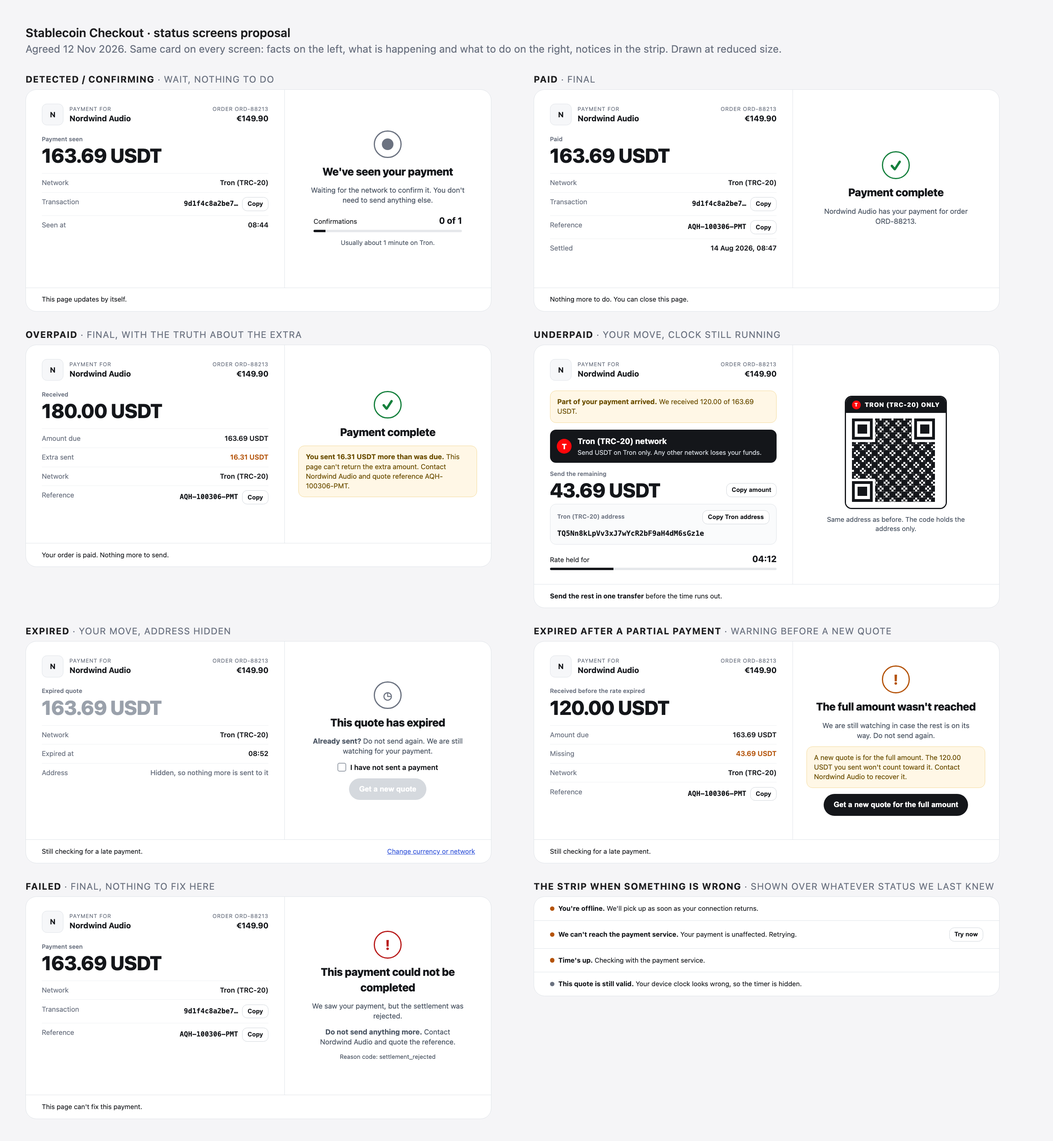
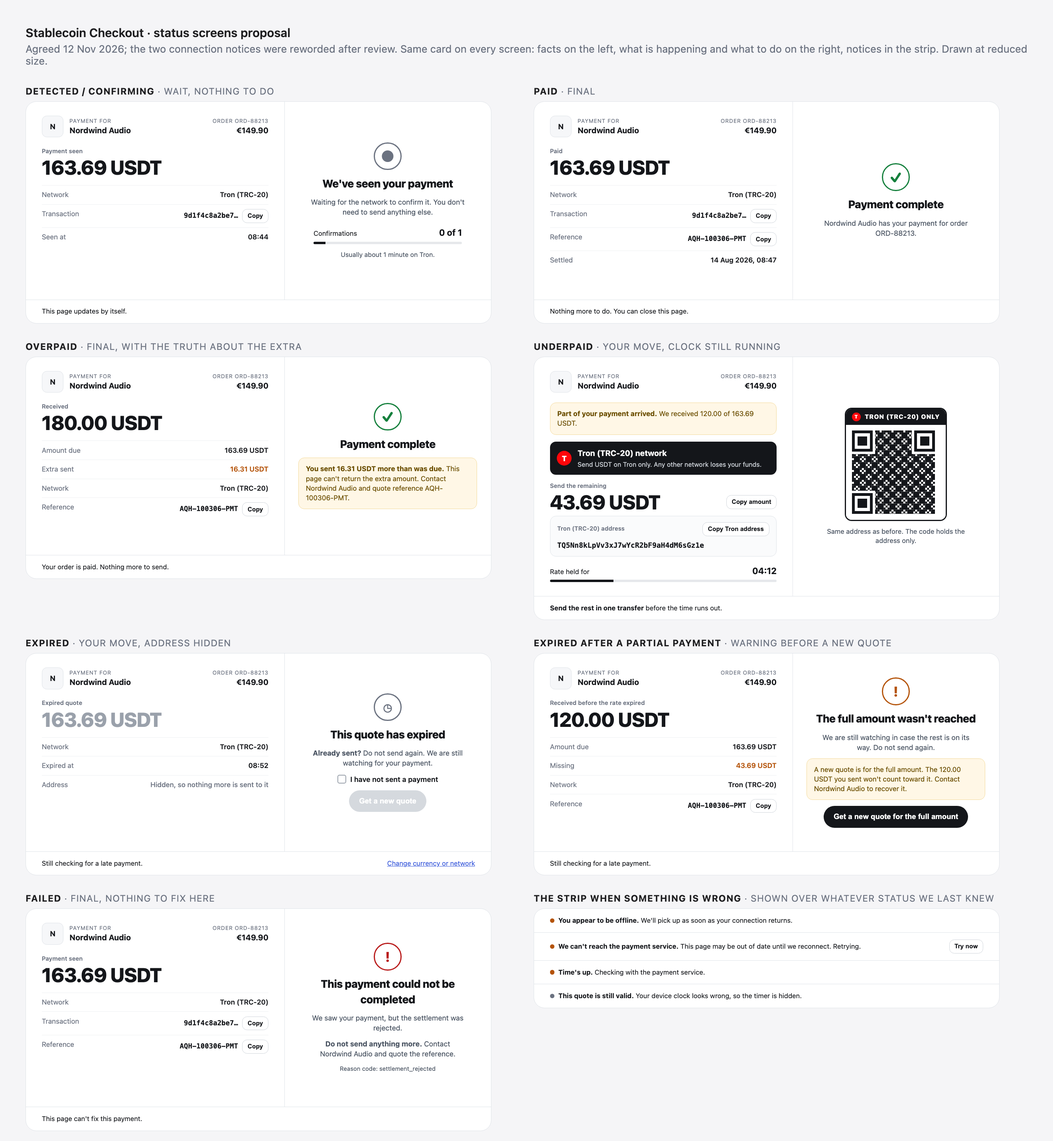
Revise design after Codex and builder review
Two reviews read the first draft. Fixes that needed no decision:

- The outage notices no longer say the payment is unaffected; a failed
  request tells the page nothing about the payment.
- The untimed "quote still valid" state now depends on a server answer
  from the last 10 seconds, so a tab returning from the background
  cannot show a stale address.
- Requests bypass the HTTP cache, and every polling trigger goes
  through the one query.
- The "I have not sent a payment" tick box is scoped to the screens
  where it can be ticked truthfully.
- The decimal-places check is scoped to crypto amounts.
- Section 4.5 restates the API, so the design can be planned from
  without the brief.

One fix was a decision: once money was seen for a quote, a later
awaiting_payment keeps the address hidden.

The status screens image is re-rendered with the reworded notices.

diff --git a/docs/design-doc.md b/docs/design-doc.md
@@ -10,7 +10,7 @@ The page cannot see the blockchain and does not control the outcome. It reports 
 
 **What I optimised for, in this order:**
 
-1. The shopper cannot send on the wrong network by mistake.
+1. The network is impossible to miss. The page cannot make a wrong-network send impossible, because the QR carries no network ([ADR 0004](adr/0004-qr-holds-address-only.md)), so the labelling has to do that work.
 2. The page never expires or hides a payment that is on its way.
 3. Every screen tells the truth, including the uncomfortable ones (overpaid, failed).
 4. No digit of an amount is lost or invented.
@@ -40,12 +40,12 @@ The API forces part of this. `POST /api/payments/:reference/requote` returns 409
 **Changing the choice:**
 
 - **While the quote is live** (`awaiting_payment` only): "Change currency or network" asks for confirmation first, because a payment sent to the old address after the change would not be tracked on this page. If the shopper confirms they have not sent anything, the page returns to the picker and the next choice creates a new payment.
-- **After the quote expired:** the same link returns to the picker, and the next choice calls requote on the same reference. No payment is abandoned.
+- **After the quote expired:** the same link returns to the picker, and the next choice calls requote on the same reference. Requote takes a currency and a network, so it can change both. No payment is abandoned, and the page keeps polling the payment while the picker is open, in case a late payment arrives.
 - **Once any money was seen** (`underpaid`, `detected` and later): there is no way to change. The remainder has to go to the same address on the same network.
 
 **What the picker can show.** The API returns the merchant name and the order amount only inside a payment. On the picker no payment exists, so it shows the order reference and the choices, and the merchant name and fiat amount appear from the pay screen onwards. I did not add an order endpoint to the mock to fill this in; see section 9.
 
-**Refresh.** After a payment is created, its reference goes in the URL (`?payment=AQH-100306-PMT`). On load, a reference in the URL makes the page fetch that payment and resume on the right screen. This departs from the brief, which lists persistence as out of scope; the reasoning is in [ADR 0005](adr/0005-resume-from-url-reference.md).
+**Refresh.** After a payment is created, its reference goes in the URL (`?payment=AQH-100306-PMT`). On load, a reference in the URL makes the page fetch that payment and resume on the right screen. The page replaces the current history entry instead of adding one, so Back does not walk through earlier payments. This departs from the brief, which lists persistence as out of scope; the reasoning is in [ADR 0005](adr/0005-resume-from-url-reference.md).
 
 ## 3. The payment lifecycle state model
 
@@ -81,6 +81,8 @@ stateDiagram-v2
 
 These are the transitions I expect from a real server. **The page does not enforce them.** It renders whatever status the server reports, in any order, because the server is the only party that knows what happened on chain. The dev panel can set any status at any time, and the page has to cope with every order.
 
+There is one exception, and it only ever hides something. Once money was seen for a quote, a later `awaiting_payment` does not bring the address back (3.4).
+
 ### 3.3 Three groups: what the shopper can do
 
 The brief asks which states the shopper can still fix. I sort the statuses by what the shopper can do, and each group looks different.
@@ -101,8 +103,9 @@ The screen is the output of one pure function. Its inputs are the server's statu
 |---|---|---|---|---|---|
 | `awaiting_payment` | time left | Pay | shown | shown | 3 s |
 | `awaiting_payment` | countdown at zero, check in flight | Pay, "Time's up, checking" | hidden | at zero | at once |
-| `awaiting_payment` | server answered "still live" after zero | Pay, "quote still valid" | shown | hidden | 3 s |
+| `awaiting_payment` | server answered "still live" after zero, and within the last 10 s | Pay, "quote still valid" | shown | hidden | 3 s |
 | `awaiting_payment` | countdown at zero, check failed | Pay, "can't confirm" | hidden | hidden | backing off |
+| `awaiting_payment` | money was already seen for this quote | "We're checking" | hidden | none | 3 s |
 | `underpaid` | same four cases | Pay, remaining amount | as above | as above | as above |
 | `detected`, `confirming` | | Waiting | hidden | none | 3 s |
 | `paid` | | Complete | hidden | none | off |
@@ -115,6 +118,8 @@ The screen is the output of one pure function. Its inputs are the server's statu
 
 Connection trouble is not a row in this table. It is a notice in the strip, laid over whichever row applies (section 7).
 
+**A status that goes backwards.** If `awaiting_payment` follows `detected`, `confirming` or `underpaid` on the same quote, the page cannot tell which of two things happened. Either the answer is stale and the money is there, or the transaction was dropped and the shopper does need to pay again. Showing the address would be right in the second case and would invite a double payment in the first. So the page shows "We're checking your payment. Don't send again." and keeps polling, and only a new quote brings an address back. In the dropped-transaction case the shopper waits for the quote to expire and then gets a new one. A delay can be recovered from, and a double payment cannot.
+
 ### 3.5 The status sequence
 
 Some screens depend on what happened before. `expired` after `underpaid` must not offer a plain "get a new quote", because the shopper already sent part of the money. The `expired` response itself carries only `expired_at`.
@@ -125,7 +130,8 @@ Three rules:
 
 - A repeated status updates the last entry instead of adding one.
 - "For this quote" means the entries since the last creation or requote. A partial payment on an earlier quote does not change the wording for a later one.
-- The sequence records whether it started at creation or from a reload. After a reload the page cannot know whether money arrived earlier, so `expired` and `failed` use cautious wording: "if you already sent funds, they won't count toward a new quote".
+- The sequence records whether it started at creation or from a reload. After a reload the page cannot know whether money arrived earlier, so `expired` and `failed` use cautious wording: "if you already sent funds, they won't count toward a new quote". If a resumed sequence later sees money, that evidence wins over the cautious wording.
+- `failed` carries only a reason and `expired` only a time. Any amount on those screens comes from the sequence, never from `total_due`.
 
 ### 3.6 Unknown statuses
 
@@ -199,6 +205,7 @@ Further rules:
 - A 4xx with a problem body is an answer, not an outage. It is not retried.
 - A requote that returns 409 `quote-not-expired` makes the page re-read the payment and show what the server says.
 - A response that fails validation counts as a failed request.
+- Every API request bypasses the HTTP cache (`cache: 'no-store'`), and the mock sends `Cache-Control: no-store`. A cached `awaiting_payment` must never stand in for a fresh one.
 
 ### 4.4 Polling
 
@@ -206,10 +213,72 @@ Polling uses TanStack Query's own interval on one query per payment reference. T
 
 - The library's built-in retries are off for this query, because the next poll is the retry.
 - A hidden tab pauses polling. One poll fires as the tab returns.
-- Starting a requote cancels the poll in flight, and the requote's response replaces the cached payment, so an older "expired" answer cannot overwrite a fresh quote.
+- There is one query per payment reference, and every trigger goes through it: the interval, the tab returning, the check at zero and "Try now". A trigger that fires during a request joins that request instead of starting another.
+- Starting a requote waits for the poll in flight to be cancelled before it sends. The requote's response then replaces the cached payment, so an older "expired" answer cannot overwrite a fresh quote.
 - Unmounting, or switching to another payment, aborts the request in flight and clears the timer.
 
-The guarantee that two polls never overlap comes from the library: a query has at most one request in flight, and an interval tick that lands during a request joins it. I rely on that and prove it with a test where the response is slower than the interval. The alternative, a hand-written loop, is weighed in [ADR 0002](adr/0002-polling-with-tanstack-query-interval.md).
+The guarantee that two polls never overlap comes from the library: a query has at most one request in flight, and an interval tick that lands during a request joins it. I rely on that and prove it with tests that fire every trigger against a response slower than the interval. The alternative, a hand-written loop, is weighed in [ADR 0002](adr/0002-polling-with-tanstack-query-interval.md).
+
+### 4.5 The API as the brief gives it
+
+Four endpoints. Every amount is a decimal string.
+
+| Endpoint | Request body | Response |
+|---|---|---|
+| `GET /api/currencies` | | `{ currencies: [{ code, name, decimals, networks: [{ id, name, network_fee, required_confirmations, avg_confirmation_seconds }] }] }` |
+| `POST /api/payments` | `{ order_id, currency, network }` | 201 with a payment |
+| `GET /api/payments/:reference` | | The payment, its current status, and that status's fields |
+| `POST /api/payments/:reference/requote` | `{ currency, network }` | 201 with the same reference, a new quote and `awaiting_payment`, or a 409 |
+
+A payment, as returned by create:
+
+```json
+{
+  "payment_reference": "AQH-100306-PMT",
+  "order_id": "ORD-88213",
+  "status": "awaiting_payment",
+  "merchant": { "name": "Nordwind Audio", "logo_url": null },
+  "order": { "currency": "EUR", "amount": "149.90" },
+  "quote": {
+    "crypto_currency": "USDT",
+    "network": "tron",
+    "network_name": "Tron (TRC-20)",
+    "exchange_rate": "0.9214",
+    "crypto_amount": "162.69",
+    "network_fee": "1.00",
+    "total_due": "163.69",
+    "crypto_address": "TQ5Nn8kLpVv3xJ7wYcR2bF9aH4dM6sGz1e",
+    "required_confirmations": 1,
+    "expires_at": "2026-08-14T08:52:10.842Z"
+  }
+}
+```
+
+The fields each status adds:
+
+| Status | Fields |
+|---|---|
+| `awaiting_payment` | none |
+| `detected` | `confirmations`, `required_confirmations`, `amount_received`, `tx_hash`, `detected_at` |
+| `confirming` | `confirmations`, `required_confirmations`, `amount_received`, `tx_hash` |
+| `paid` | `confirmations`, `required_confirmations`, `amount_received`, `tx_hash`, `settled_at` |
+| `underpaid` | `amount_received`, `amount_outstanding`, `crypto_address`, `tx_hash` |
+| `overpaid` | `amount_received`, `amount_excess`, `tx_hash`, `settled_at` |
+| `expired` | `expired_at` |
+| `failed` | `reason` |
+
+The six currency and network pairs in the catalogue:
+
+| Currency | Decimals | Network (`id`) | `network_fee` | Confirmations | Usual seconds |
+|---|---|---|---|---|---|
+| USDT | 6 | Tron (TRC-20) (`tron`) | `1.00` | 1 | 60 |
+| USDT | 6 | Ethereum (ERC-20) (`ethereum`) | `4.50` | 3 | 180 |
+| USDC | 6 | Ethereum (ERC-20) (`ethereum`) | `4.50` | 3 | 180 |
+| USDC | 6 | Polygon (`polygon`) | `0.10` | 6 | 30 |
+| USDC | 6 | Solana (`solana`) | `0.01` | 1 | 15 |
+| ETH | 18 | Ethereum (`ethereum`) | `3.20` | 3 | 180 |
+
+Errors are `application/problem+json` with `type`, `title`, `status` and `detail`. The brief defines one: requote returns 409 with type `https://developers.triple-a.io/errors/quote-not-expired`.
 
 ## 5. How the countdown stays correct
 
@@ -224,9 +293,12 @@ The guarantee that two polls never overlap comes from the library: a query has a
 | Countdown reaches zero | Hides the address and QR, shows "Time's up, checking", polls at once |
 | Server says `expired` | Shows the expired screen and the new-quote action |
 | Server says the quote is still live | Brings the address back, hides the timer, shows "this quote is still valid". The device clock is known to be wrong, so the page stops showing a number it cannot trust |
+| No timer, and the server has not answered for 10 s | Hides the address until a fresh answer arrives. This covers the tab returning from the background and polls that start failing |
 | The check fails | Keeps the address hidden and says it cannot confirm |
 | Server says `expired` while the countdown still shows time | Shows the expired screen. The server wins |
 | Server says `detected` or later | The countdown is gone for good |
+
+Without a timer the page has no local deadline to rely on, which is why the untimed state depends on a recent answer from the server.
 
 The two clock errors behave differently, and I accept both:
 
@@ -252,15 +324,15 @@ A real example from the mock's ETH quote, checked in Node:
 
 - **Amounts are strings end to end.** The API sends decimal strings. They get their own string type, created only where a response is validated, so passing one to ordinary maths is a compile error.
 - **No maths on money.** The page shows `total_due`, `amount_outstanding` and `amount_excess` as the server sends them. It never adds the fee, subtracts what was received, or rounds.
-- **Validation at the boundary.** A response is rejected if an amount arrives as a JSON number, is malformed, or has more decimal places than its currency's `decimals` allows. A JSON number has already been through a float by the time the page sees it.
+- **Validation at the boundary.** A response is rejected if an amount arrives as a JSON number or is malformed. A crypto amount is also rejected if it has more decimal places than its currency's `decimals` allows. A JSON number has already been through a float by the time the page sees it.
 - **Crypto is shown exactly as sent.** Dot decimal, no thousands separators, never rounded or shortened, including all eighteen ETH places. The copy button copies that exact string with no unit.
-- **Only fiat follows the locale.** The order amount goes to the browser's number formatter as a string, which formats it exactly, so a German shopper sees `149,90 €`.
+- **Only fiat follows the locale.** The order amount goes to the browser's number formatter as a string, which current browsers format exactly, so a German shopper sees `149,90 €`. A test asserts that a long decimal string comes through the formatter unchanged.
 - **No decimal library.** A library would earn its place if the page did arithmetic. It does not.
 - **No floats in the mock either.** Its amounts are literal strings in a hand-written table.
 
 I show crypto exactly as sent, not in the shopper's locale, because that number gets retyped or pasted into a wallet. A wallet that expects a dot may reject `163,69`, or read `1.234,56` wrongly. A locale-formatted crypto amount is the one way this page could cause a wrong amount.
 
-**Where `decimals` is used.** `GET /api/currencies` returns each currency's `decimals`. The page uses it for the guard above and nowhere else. It would also be needed to build wallet payment links, which the page does not do; see [ADR 0004](adr/0004-qr-holds-address-only.md).
+**Where `decimals` is used.** `GET /api/currencies` returns each currency's `decimals`. The page uses it for the guard above and nowhere else. The guard needs the currency list, and a resumed payment does not wait for it: the payment shows as soon as it loads, and the decimal-places check applies once the list arrives. Not hiding a payment in flight outranks the extra check. It would also be needed to build wallet payment links, which the page does not do; see [ADR 0004](adr/0004-qr-holds-address-only.md).
 
 ## 7. How I show failure states
 
@@ -284,6 +356,8 @@ I show crypto exactly as sent, not in the shopper's locale, because that number 
 | `failed` | This payment could not be completed | The reason in plain words, the server's reason code in small print, "do not send anything more", contact the merchant | None |
 | unknown | We're checking your payment | "Don't send again." | None |
 
+The tick box belongs to the plain `expired` screen and its cautious reload variant. The partial-payment screen has no tick box, because a shopper who paid part cannot truthfully tick "I have not sent a payment". It has its own button and warning, and no link to change currency.
+
 Notes on three of them:
 
 - **`overpaid`** is shown as a success with a clear notice, not as plain green and not as an error. The response has a settlement time, so "complete" is true. It says nothing about a refund, so neither does the page.
@@ -296,15 +370,17 @@ If the server is down or the shopper is offline, the last status the page knew s
 
 | Notice | When |
 |---|---|
-| "You're offline. We'll pick up as soon as your connection returns." | The browser reports no connection. Polling pauses and resumes when it returns |
-| "We can't reach the payment service. Your payment is unaffected. Retrying." with "Try now" | Everything else: 500s, timeouts, invalid responses, network errors while the browser says it is online |
+| "You appear to be offline. We'll pick up as soon as your connection returns." | The browser reports no connection, which is a hint and not proof. Polling pauses and resumes when it returns |
+| "We can't reach the payment service. This page may be out of date until we reconnect. Retrying." with "Try now" | Everything else: 500s, timeouts, invalid responses, network errors while the browser says it is online |
+
+Neither notice says the payment is safe or unaffected. A failed request tells the page nothing about the payment.
 
 While the connection is down and the quote still has time left, the address and QR **stay visible**. The quote is valid until its deadline whether or not this page can reach the server, and the shopper's wallet is usually on another device. Once the countdown reaches zero they are hidden, because the page can no longer confirm the quote is live.
 
 ### 7.4 Shopper safety on the pay screen
 
 - **The network is named five times:** in the banner at the top, in the address label, on the copy button ("Copy Tron address"), on the frame around the QR, and in the picker's button before any of that ("Continue with USDT on Tron").
-- **The QR holds the address only.** An Ethereum address and a Polygon address look identical, so the QR itself carries no network information. That is why its frame names the network.
+- **The QR holds the address only.** An Ethereum address and a Polygon address look identical, so the QR itself carries no network information, and a wallet that scans it learns nothing about the network. That is a real limit of this design. The frame around the QR names the network, and the step that stands in for a machine-readable network is the picker's button, which the shopper presses with the network named on it immediately before the address appears.
 - **A hint for the commonest cause of underpayment:** "Sending from an exchange? Make sure 163.69 USDT arrives after its withdrawal fee."
 - **Nothing is preselected in the picker,** and changing the currency clears the network, so the network is always chosen on purpose.
 
@@ -342,13 +418,16 @@ These are places where the brief is silent or does not fit together. Each is a q
 | Topic | What the brief says | What I assumed |
 |---|---|---|
 | Number of statuses | "There are six more states" beyond the four in the diagram | The API defines four more. I built for eight in total |
-| Fee unit | The catalogue lists a `network_fee` of `3.20` for ETH; the example quote adds the fee in the crypto's own units | Catalogue fees are in USD. Each quote carries the fee converted into the crypto's units, one to one for USDT and USDC. An ETH quote's fee is `0.001066666666666667` ETH |
+| Fee unit | The catalogue lists a `network_fee` of `3.20` for ETH; the one example quote, for USDT on Tron, adds the fee in the crypto's own units | The catalogue is served exactly as given. I read its fees as USD. Each quote carries the fee converted into the crypto's units, one to one for USDT and USDC. The brief shows no ETH quote, so I defined one, with a fee of `0.001066666666666667` ETH |
 | Order details before a payment | Merchant and order amount come only inside a payment | The picker shows the order reference only. I did not invent an order endpoint |
 | What `GET` returns | "Returns the payment with an updated status, plus the fields below" | The whole payment, plus the status fields |
 | Repeated `POST /api/payments` | Not stated | A new payment with a new reference each time |
 | Deadline on `underpaid` | The response has no deadline field | The quote's original `expires_at` still applies |
 | Requote after a partial payment | "Same body as `POST /api/payments`" | The new quote is for the full amount. Funds already sent do not count toward it |
 | Money arriving after expiry | No status for it | The server may move `expired` to `detected`, so the page keeps watching |
+| Is `expired` terminal? | "Stop polling on terminal states", without listing them | Only `paid`, `overpaid` and `failed` are terminal. `expired` can return to `awaiting_payment` through requote |
+| An unknown reference | Not stated | The mock returns 404 in the same problem format |
+| `failed` reasons | One example, `settlement_rejected` | Known codes get plain words. Any other code gets generic wording with the code in small print |
 
 ## 10. Follow-ups
 
@@ -370,18 +449,20 @@ These were not discussed one by one. I set them while writing this document, and
 - **Order id:** read from `?order_id=` in the URL, falling back to `ORD-88213` so the page runs with no setup.
 - **Exchange rate:** shown under the amount, exactly as sent ("1 USDT = 0.9214 EUR").
 - **Going back from a live quote:** a native dialog. "Have you already sent a payment? Only change if you have not sent anything."
-- **`expired` tick box:** it enables both "Get a new quote" and "Change currency or network".
+- **`expired` tick box:** on the plain and cautious `expired` screens it enables both "Get a new quote" and "Change currency or network".
 - **Picker menus:** the browser's own, with the fee and usual time in each option's text. A currency with one network (ETH) has it filled in.
 - **Payment not found on resume:** back to the picker with a notice.
 - **Copy buttons:** show "Copied" for two seconds, announced to screen readers.
 - **Dates and times:** formatted for the shopper's locale and time zone.
 - **Accessibility:** status changes are announced, the countdown is not read out every second, focus moves to the new screen's heading, and colour is never the only signal.
 - **Mock control endpoints:** `GET /__mock/state`, `POST /__mock/payments/:reference/status`, `POST /__mock/settings`.
+- **Tools:** Vite, React and TypeScript in strict mode; Tailwind; TanStack Query; zod; `qrcode.react` for the QR; Express for the mock; Vitest and React Testing Library; ESLint and Prettier; npm.
+- **Browsers:** current Chrome, Safari, Firefox and Edge.
 
 Three things I still have to verify during the build:
 
 - That a dropped connection from a mock mounted in the dev server reaches the browser as a network error and not as a 500.
-- That TanStack Query's interval never overlaps requests, which the polling tests will prove or disprove.
+- That TanStack Query never overlaps requests for one query, whichever trigger fires, which the polling tests will prove or disprove.
 - That TypeScript's typings accept a string in the number formatter. Node formats it exactly; I checked that.
 
 ## 12. One thing I would defend

diff --git a/docs/agent-log.md b/docs/agent-log.md
@@ -31,3 +31,19 @@ The design now leans on the sequence for more than that one screen. The `failed`
 - **Hiding the address at zero.** The agent first proposed hiding the address the moment the countdown reached zero. That was fine while the clock was going to be corrected from the server. After I chose the device clock, the same rule would have locked out any shopper whose clock runs ahead: the countdown would sit at zero and the address would never show. The agent caught this itself when the clock decision changed and rewrote the rule so that a "still live" answer from the server brings the address back.
 - **A picker the API cannot fill.** The agent drew the picker with the merchant name and "You pay €149.90", and I approved the drawing. Neither value is available before a payment exists; the API returns them only inside a payment. The agent noticed the gap later, while checking every agreed screen against the API, and the picker was redrawn.
 - **About the payment state machine.** The brief says there are "six more states" beyond the four in its diagram. The API defines four more. I pointed this out before the agent read the brief, so it did not get the chance to miscount; it confirmed eight. It made no factual error about the statuses in this session. The nearest thing was entry 2 above: it wanted to treat `underpaid` like `detected`, as a state where the clock should stop.
+
+## 12 Nov 2026: review of the first draft
+
+Two reviews read the first draft of the design before I approved it. One was a fresh agent acting as a builder who has to plan from the document alone. The other was Codex, a different model, checking the design against the brief.
+
+### What the reviews caught in the agent's draft
+
+All of these are fixed in the design doc.
+
+- **An unbacked promise.** The outage notice said "Your payment is unaffected." A failed request tells the page nothing about the payment. This broke the draft's own rule against promising what the API does not state.
+- **A stale address after the tab returns.** When the device clock turns out to be wrong, the page shows the address with no timer. The draft would have kept showing it while the tab came back from the background, before a fresh answer arrived. That state now depends on an answer from the last 10 seconds.
+- **A status that goes backwards.** `detected` followed by `awaiting_payment` would have brought the address back and invited a second payment. I chose to keep the address hidden once money was seen for a quote.
+- **No cache rule.** Nothing said that status requests must bypass the HTTP cache.
+- **A tick box nobody could truthfully tick.** "I have not sent a payment" was described as gating every expired screen, including the one for a shopper who had paid part.
+- **A rule with no data behind it.** The decimal-places check was written for every amount, but only crypto currencies have a `decimals` value.
+- **A design that leaned on a document the repo does not contain.** The draft never restated the API it was designed against, so a builder without the brief could not have planned from it. Section 4.5 now does.

diff --git a/docs/adr/0002-polling-with-tanstack-query-interval.md b/docs/adr/0002-polling-with-tanstack-query-interval.md
@@ -22,12 +22,14 @@ Use TanStack Query's interval on one query per payment reference, and prove ever
 - The interval is a function of the last result: 3 s while active, 15 s on `expired`, off on `paid`, `overpaid` and `failed`, doubling up to 30 s after consecutive failures.
 - The library's built-in retries are off for this query. The next poll is the retry.
 - Polling pauses while the tab is hidden, and one poll fires when it returns.
-- Starting a requote cancels the poll in flight. The requote's response replaces the cached payment.
+- There is one query per payment reference. The interval, the tab returning, the check at zero and "Try now" all go through it, and a trigger that fires during a request joins that request.
+- Starting a requote waits for the poll in flight to be cancelled before it sends. The requote's response replaces the cached payment.
+- Every request bypasses the HTTP cache.
 - Every request carries the query's abort signal and a 10 s timeout.
 
 ## Consequences
 
-- The guarantee rests on this behaviour of the library: a query has at most one request in flight, and an interval tick that lands during a request joins it instead of starting another. That is my understanding of it, so the test suite includes a response slower than the interval and asserts that only one request is ever in flight.
+- The guarantee rests on this behaviour of the library: a query has at most one request in flight, and an interval tick that lands during a request joins it instead of starting another. That is my understanding of it, so the test suite fires every trigger against a response slower than the interval and asserts that only one request is ever in flight.
 - The other tests: no poll after a final status, nothing after unmount, the backoff sequence, the requote race, and the pause while hidden.
 - If a test shows the library does not behave this way, the fallback is the hand-written loop. The rest of the design does not change, because everything downstream reads the cached payment.
 - The interval is fixed-rate, not fixed-delay. Against a slow server, the next request can start soon after the previous one ends. The backoff covers failures; a consistently slow but successful server gets no relief. I accept that for a mock.

diff --git a/AGENTS.md b/AGENTS.md
@@ -14,7 +14,7 @@ This repo is a hosted crypto payment page and the mock API behind it. A shopper 
 - An amount is a string from the API response to the screen. It is never a `number`.
 - Do not use `Number`, `parseFloat`, `toFixed`, unary `+` or arithmetic on an amount. The page does no maths on money; it shows the totals the server sends.
 - Show crypto amounts exactly as received. Only the fiat amount follows the shopper's locale.
-- Reject a response whose amount is a JSON number, is malformed, or has more decimal places than its currency allows.
+- Reject a response whose amount is a JSON number or is malformed. Reject a crypto amount with more decimal places than its currency's `decimals` allows.
 
 ## The server is the authority
 
@@ -25,14 +25,14 @@ This repo is a hosted crypto payment page and the mock API behind it. A shopper 
 ## Shopper safety
 
 - Name the network wherever an address or a QR code appears.
-- Show the address and QR only on `awaiting_payment` and `underpaid`.
-- Never promise an outcome the API does not state. In particular, never promise a refund.
+- Show the address and QR only on `awaiting_payment` and `underpaid`, and never on `awaiting_payment` once money was seen for that quote.
+- Never promise an outcome the API does not state. In particular, never promise a refund, and never say a payment is safe or unaffected because a request failed.
 - A copy button copies the exact string and says what it copies.
 
 ## Requests
 
 - Reads retry themselves. Writes do not: there is no idempotency key, so a retried write can create a second payment.
-- Every request has a timeout and an abort signal.
+- Every request has a timeout and an abort signal, and bypasses the HTTP cache.
 - At most one poll is in flight. Polling runs through TanStack Query only.
 - Clean up every timer and listener you add.
 
